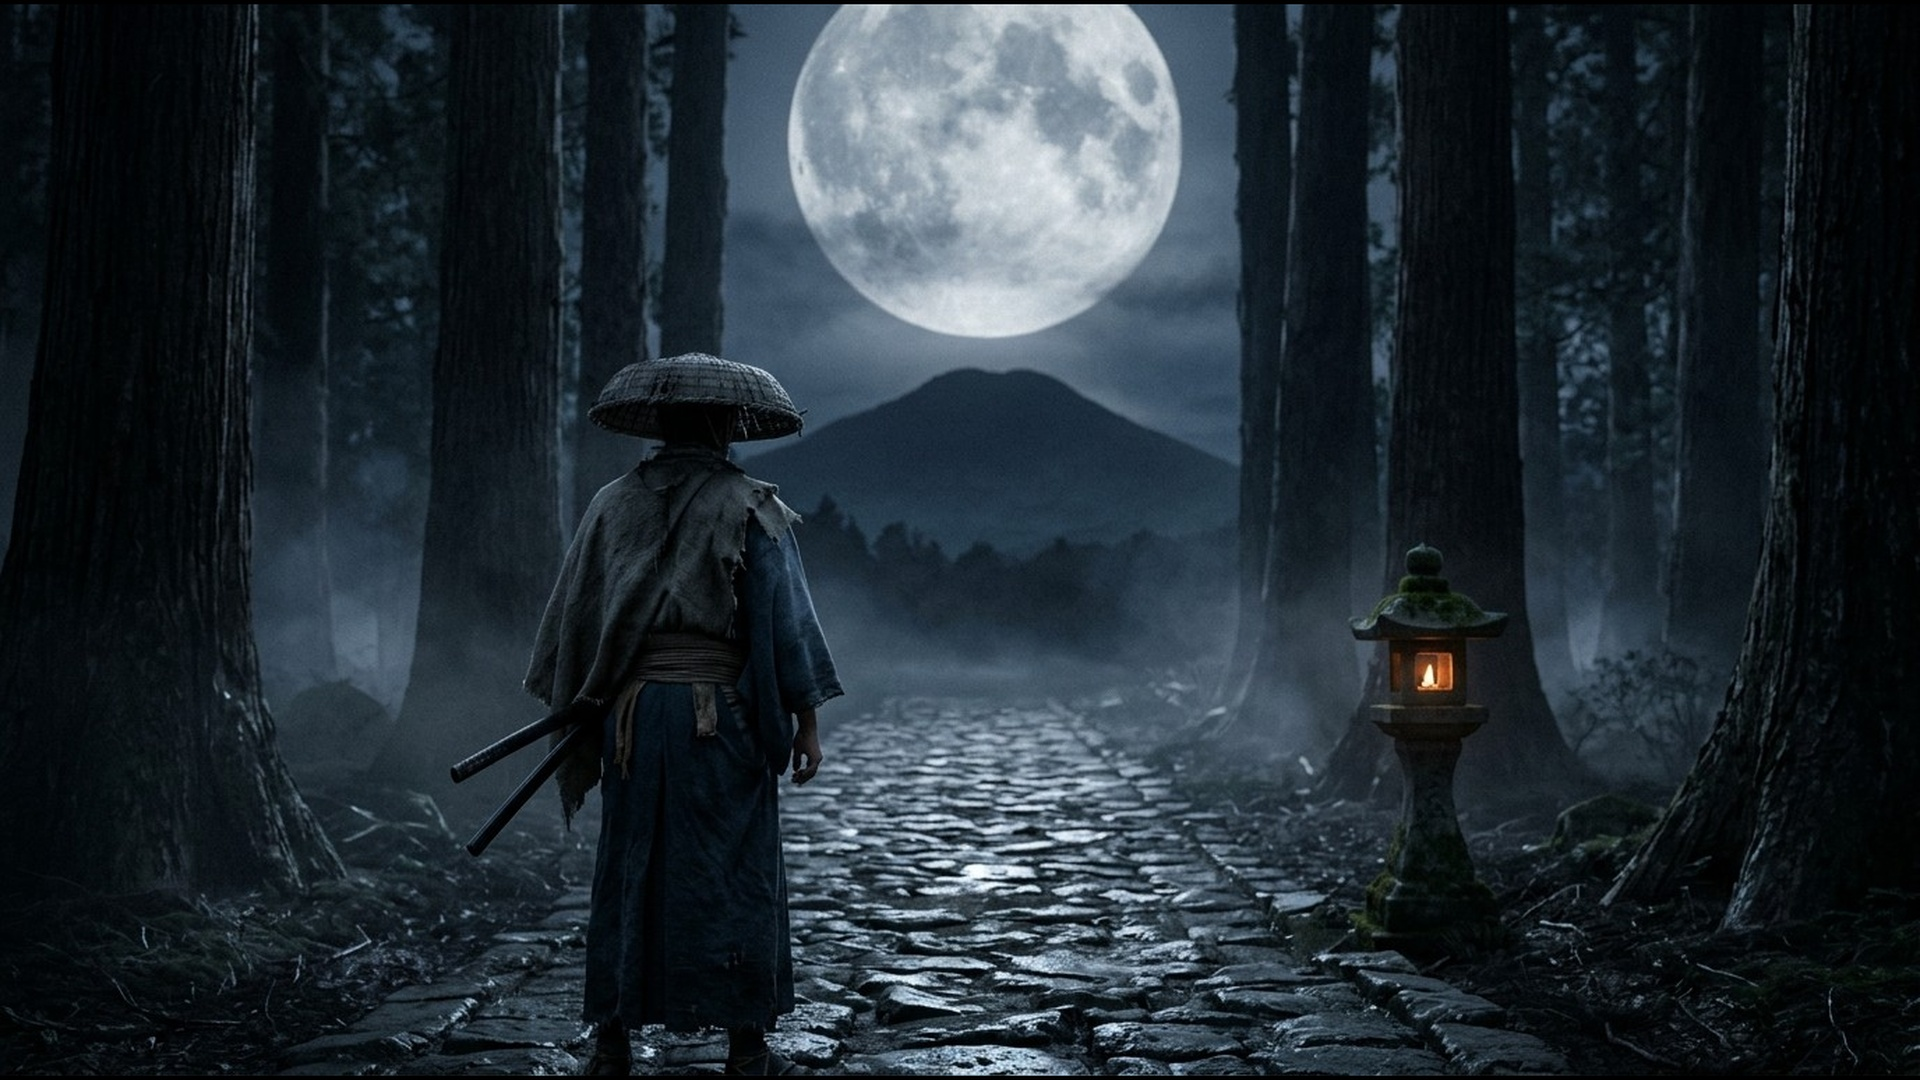
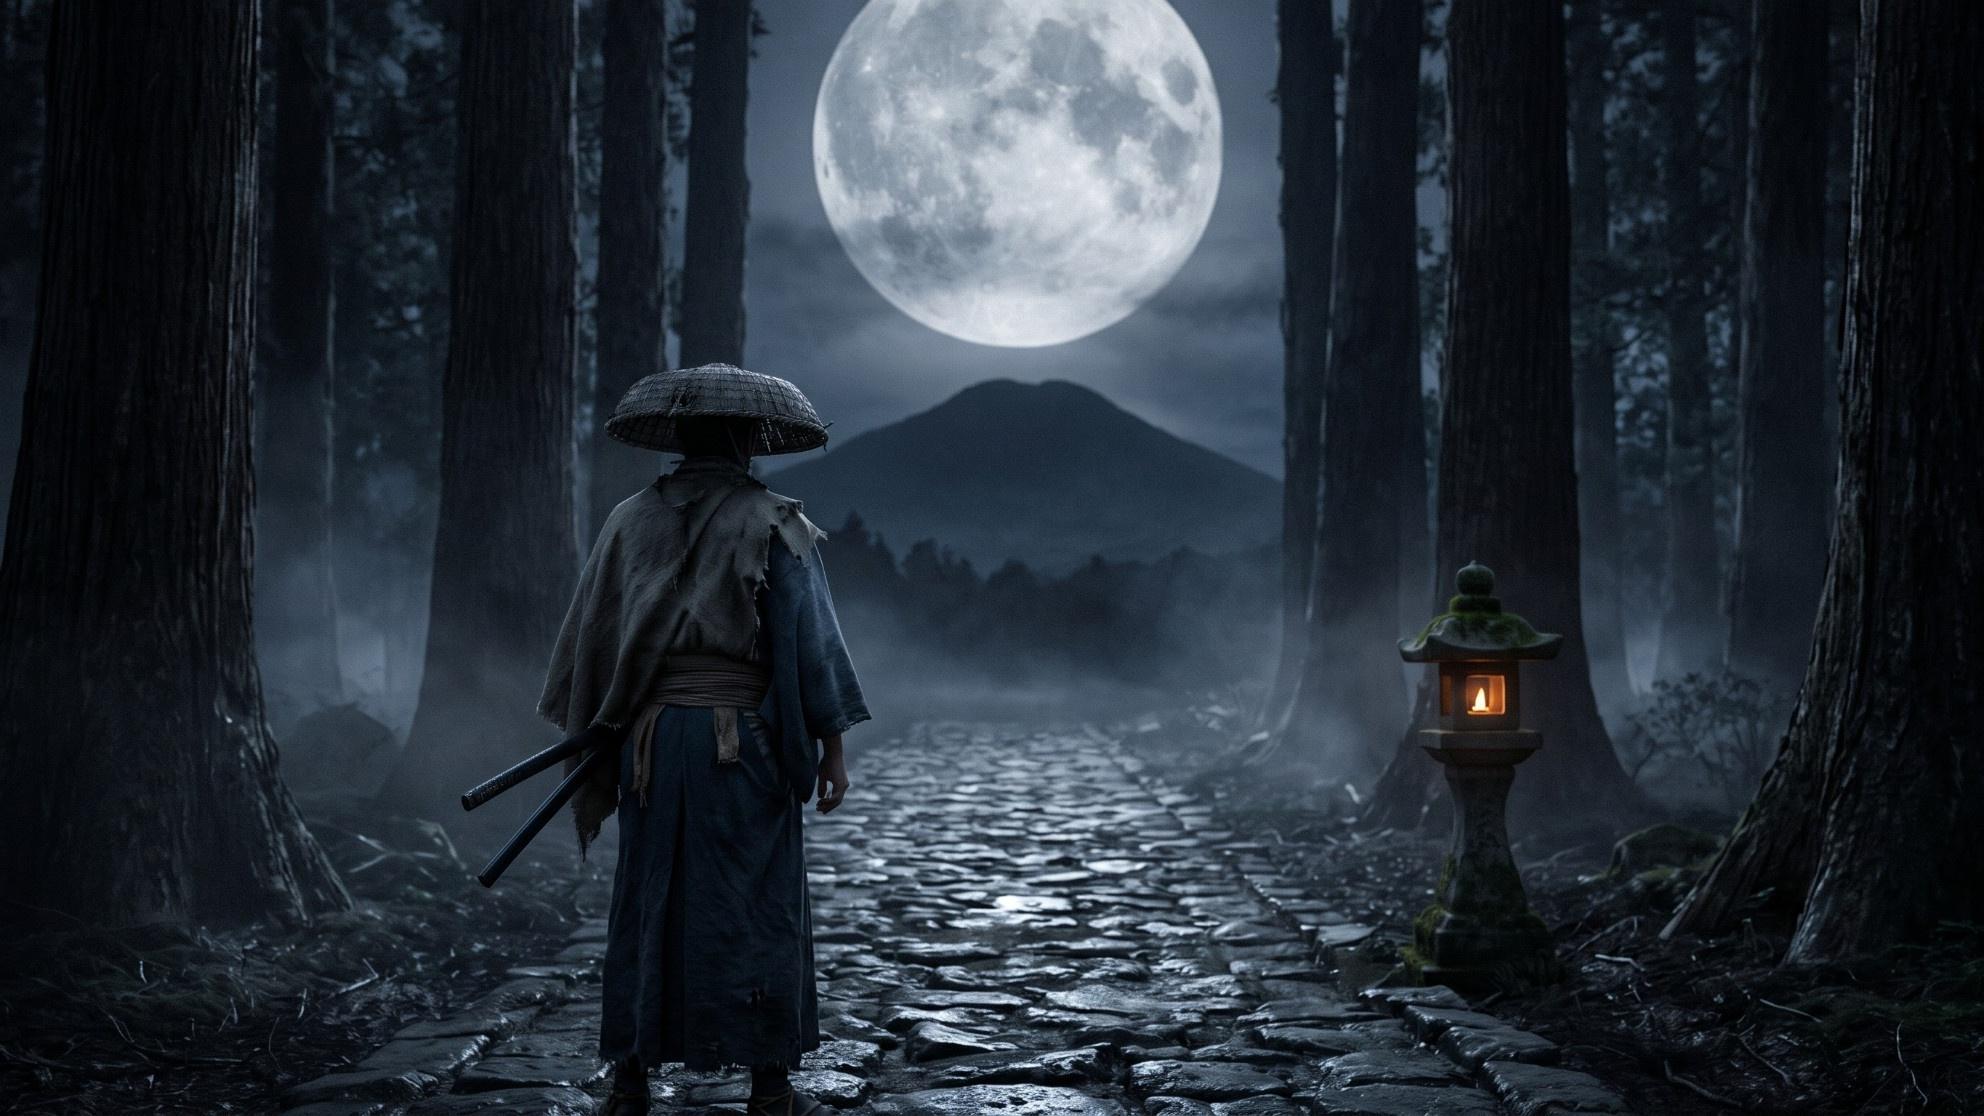
StillWave RONIN: replace hero with the larger frame, rebuild thumbnail
The frame is cropped to exact 16:9 (1984x1116) with no padding; the first save
had padded 3px black bars top and bottom from an out-of-bounds crop.

Claude-Session: https://claude.ai/code/session_014rUxCAgr4C7iAmMHbP4fFt

diff --git a/stillwave/scripts/ronin-2h.md b/stillwave/scripts/ronin-2h.md
@@ -57,12 +57,12 @@ Feed the clean hero (no text). Camera completely locked: no pan, no zoom, no dol
 
 ## §5 — Chosen frame, overlay placement, thumbnail (2026-11-12)
 
-- **Frame:** the user generated variant B (night road, giant moon, stone lantern). Saved as `assets/ronin-2h-source.jpg`. The original is only 1376x768, so it is upscaled ~1.4x for 1080p; re-download at a higher resolution if the generator allows.
+- **Frame:** the user generated variant B (night road, giant moon, stone lantern). Saved as `assets/ronin-2h-source.jpg`. Replaced the same day with the larger version: it reached the chat at 2000x1116 (chat compresses uploads), cropped to 1984x1116 for exact 16:9 — enough for 1080p. The true 4K original stays on the user's PC in `StillWaveZen\RONIN` for Flow and CapCut.
 - **Hat:** a woven travelling kasa, closest to an ajirogasa / sandogasa type — historically plausible for a ronin on the road.
 - **Overlay:** the figure stands in the lower-left, where the standard overlay would cover the swords, so the overlay sits in the **upper-left** over the dark cedars (`make_overlay.py --dy -600`).
 - **Thumbnail:** `assets/ronin-2h-thumb.jpg` (`ronin-compose-thumb.py`): 浪人 in black brush on the moon, RONIN in bold white upper-left, small `SAMURAI ZEN MUSIC` under it.
 
-**🇺🇦 RU:** Выбран вариант B (ночная дорога, луна, фонарь). Исходник маленький (1376x768), для 1080p он растягивается в 1,4 раза. Фигура стоит слева внизу, поэтому оверлей перенесён в левый верхний угол. Превью: 浪人 чёрной кистью на луне, RONIN белым слева вверху.
+**🇺🇦 RU:** Выбран вариант B (ночная дорога, луна, фонарь). Кадр заменён на версию побольше (в чат дошёл как 2000x1116, обрезан до 1984x1116 под 16:9), для 1080p хватает; настоящий 4K-оригинал лежит у пользователя в `StillWaveZen\RONIN`. Фигура стоит слева внизу, поэтому оверлей перенесён в левый верхний угол. Превью: 浪人 чёрной кистью на луне, RONIN белым слева вверху.
 
 ## §6a — Wisdom Overlay
 
